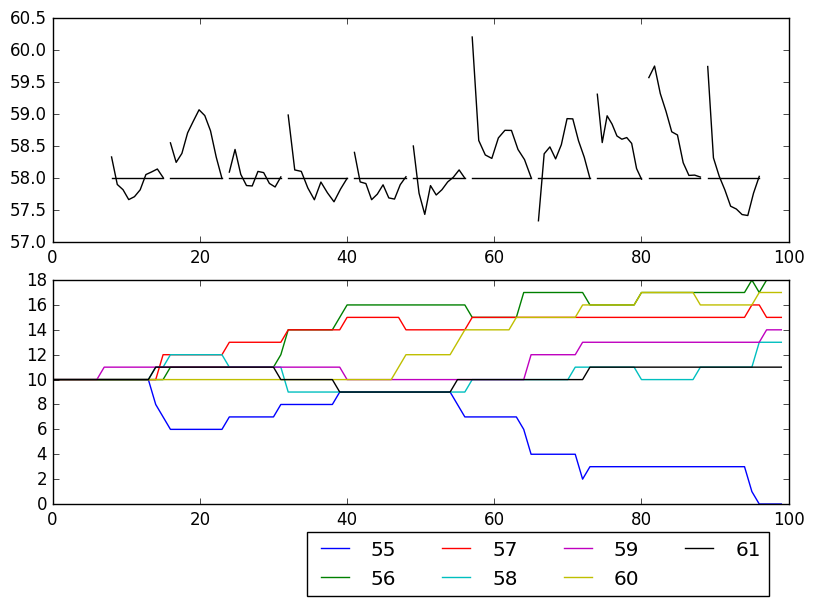
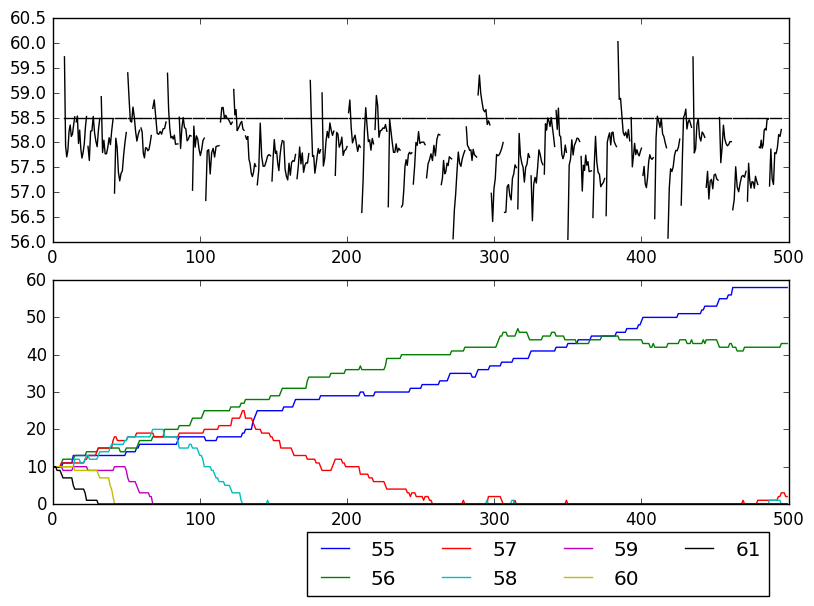
evaluation lse

diff --git a/ea/sim_eval.py b/ea/sim_eval.py
@@ -6,6 +6,7 @@ Created on Mon May  1 14:50:35 2017
 """
 
 import numpy as np 
+import math
 import matplotlib.pyplot as plt
 
 
@@ -85,7 +86,7 @@ class stockpile_sim(object):
         return np.concatenate((
                 np.random.rand(1,ntime) * 6 + 53,
                 np.random.rand(1,ntime) * 6 + 56,
-                np.random.rand(1,ntime) * 6 + 55,
+                np.random.rand(1,ntime) * 6 + 53,
                 np.zeros((1,ntime)),
                 np.zeros((1,ntime))
                 ))     
@@ -204,9 +205,21 @@ class stockpile_sim(object):
         self.build_start = np.append(self.build_start, self.ntime)
         
 
-    #t = np.arange(0.,100,1)
-    #plt.plot(t,build_av[0,:],'ro')
-    
+    def build_quality_deviation(self):
+
+#        s = stockpile_sim(time_periods=500,grade_target=58.5)
+#        s.run()
+#        serror = 0
+#        for ii in range(1,np.shape(s.build_start)[0]):
+#            serror += math.pow((s.build_av[0, int(s.build_start[ii])-1 ] - s.target ), 2) #math.pow(s.build_av[0, int(s.build_start[1])-1 ] - s.target,2)      
+#            print str( s.build_av[0, int(s.build_start[ii])-1 ] ) + "  "+ str( serror)
+#  
+        serror = 0
+        for ii in range(1,np.shape(self.build_start)[0]):
+            serror += math.pow((self.build_av[0, int(self.build_start[ii])-1 ] - self.target ), 2)
+        return serror   
+  
+        
     def plot_summary(self):
         
         fig1 = plt.figure()
@@ -225,7 +238,7 @@ class stockpile_sim(object):
         ax2.plot(np.transpose(self.piles_n))
         plt.legend(self.piles, ncol=4, loc='lower right', 
                    bbox_to_anchor=[1.0, -0.5],borderaxespad=1)
-        plt.subplots_adjust(left=0.04, bottom=0.15, right=0.96, top=0.96, wspace=0.17, hspace=0.17)
+        plt.subplots_adjust(left=0.07, bottom=0.15, right=0.96, top=0.96, wspace=0.17, hspace=0.17)
         fig1.savefig("output.png", bbox_inches="tight")
         plt.show()
     
